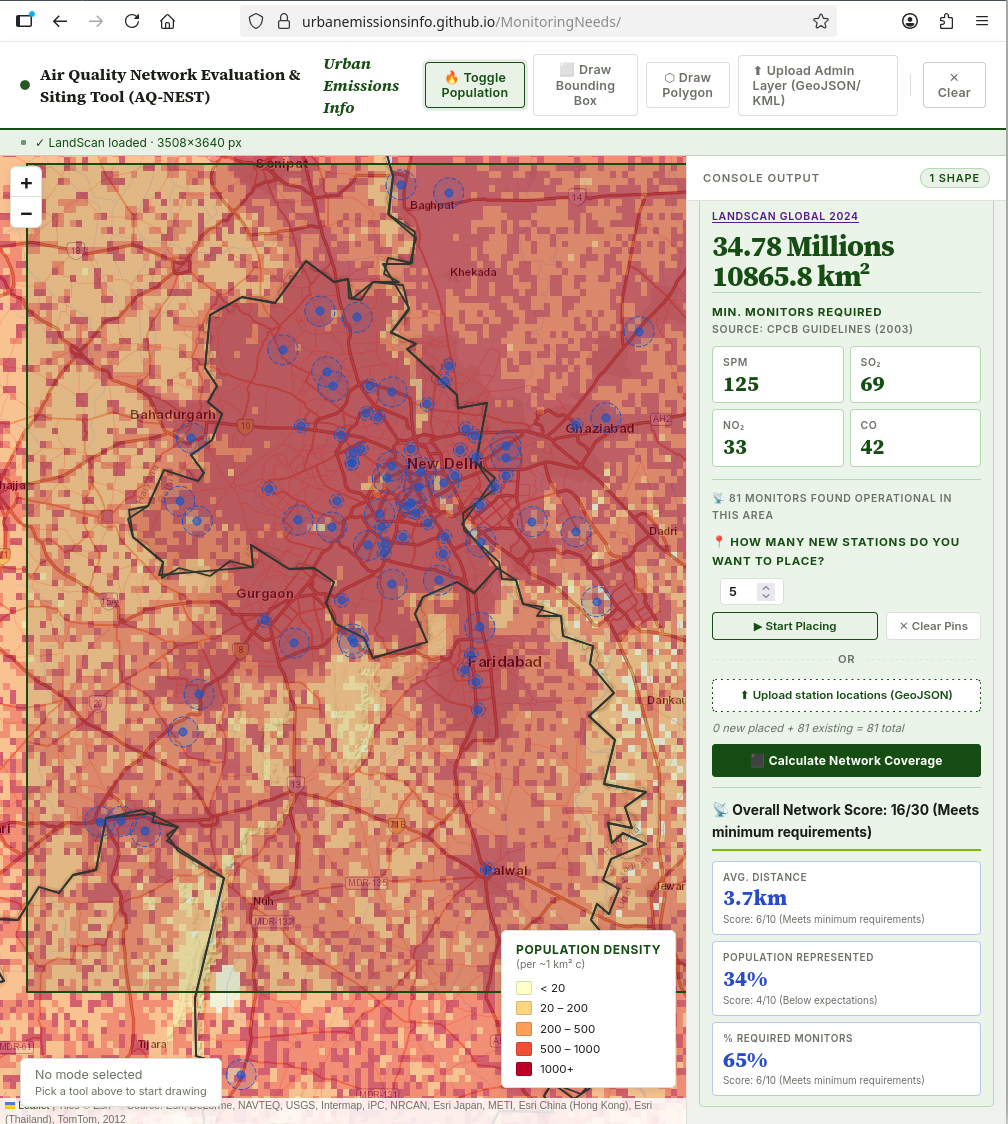
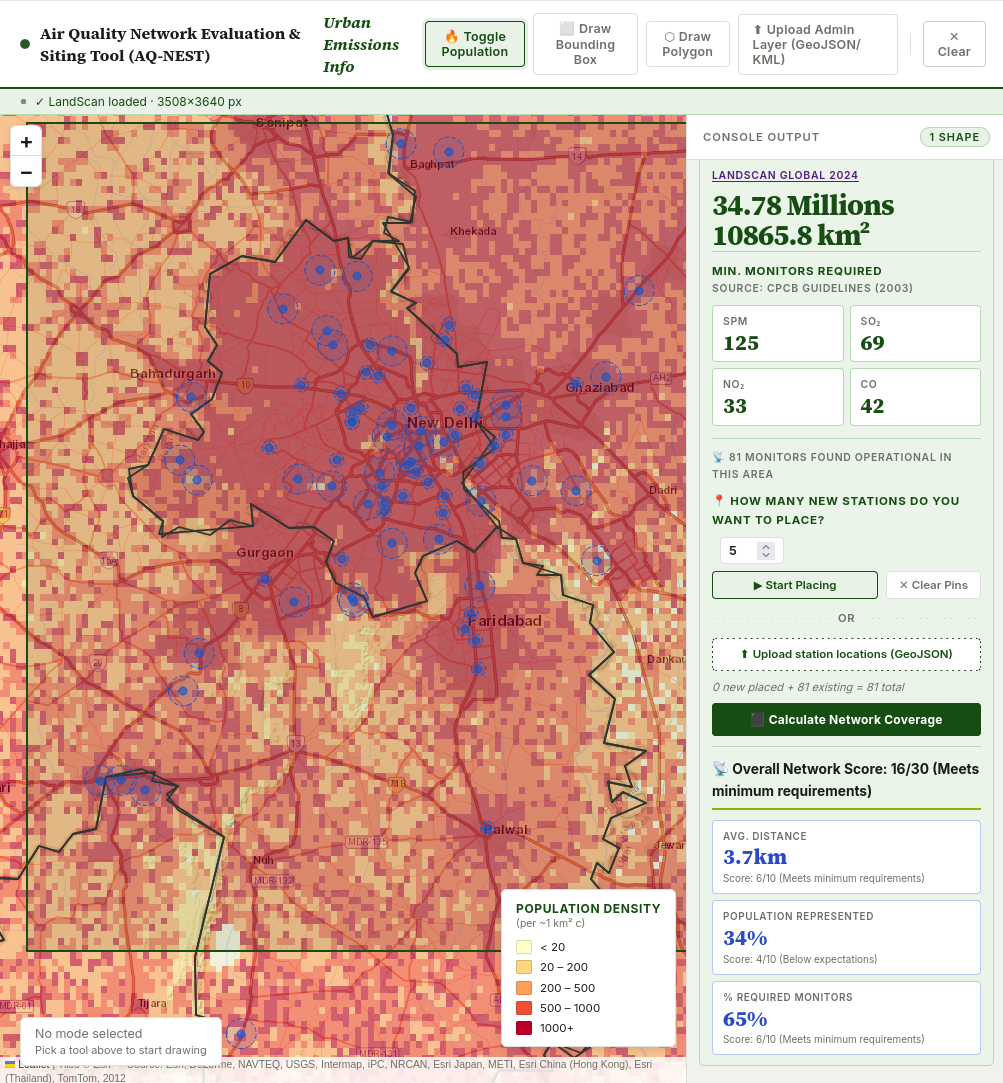
UPDATE India only PM

diff --git a/index.js b/index.js
@@ -1276,8 +1276,9 @@ function logPopulation(population, index, label, layer, target) {
   const out = document.getElementById('console-output');
   const millions   = (population/1_000_000).toFixed(2);
   const formatted  = population.toLocaleString('en-IN');
-  const pollutants = ['spm','so2','no2','co'];
-  const pLabels    = { spm:'SPM', so2:'SO₂', no2:'NO₂', co:'CO' };
+  // const pollutants = ['spm','so2','no2','co'];
+  const pollutants = ['spm'];
+  const pLabels    = { spm:'PM', so2:'SO₂', no2:'NO₂', co:'CO' };
   const areaStr    = target ? target.areaSqKm.toFixed(1)+' km²' : '—';
 
   // Calculate UCF for the target shape
@@ -1286,8 +1287,15 @@ function logPopulation(population, index, label, layer, target) {
 
   const monitorsHTML = pollutants.map(p => {
     const n = numMonitorsCpcb(p, population, ucf);
-    return `<div class="monitor-card"><span class="monitor-pollutant">${pLabels[p]}</span><span class="monitor-val">${n}</span></div>`;
+    const backgroundstations = Number(1)+Number((0.05*n).toFixed(0));
+    return `<div class="monitor-card">
+    <span class="monitor-pollutant">${pLabels[p]}</span>
+    <span class="monitor-val">${n}</span> 
+    <span class="monitor-unit">Background stations:${backgroundstations}</span> 
+    </div>`;
   }).join('');
+  //   return `<div class="monitor-card"><span class="monitor-pollutant">${pLabels[p]}</span><span class="monitor-val">${n}</span></div>`;
+  // }).join('');
 
   // Unique id for this entry's placement widget
   const uid = `mp-${Date.now()}`;
@@ -1306,6 +1314,7 @@ function logPopulation(population, index, label, layer, target) {
       <span class="monitors-label">Min. monitors required</span><span class="sub-label">Source: CPCB guidelines (2003)</span>
 
       <div class="monitors-grid">${monitorsHTML}</div>
+      <div class="mp-placed">Requirement is lower for other gases</div>
     </div>
     <div class="mp-widget" id="${uid}">
       ${csvNote}
